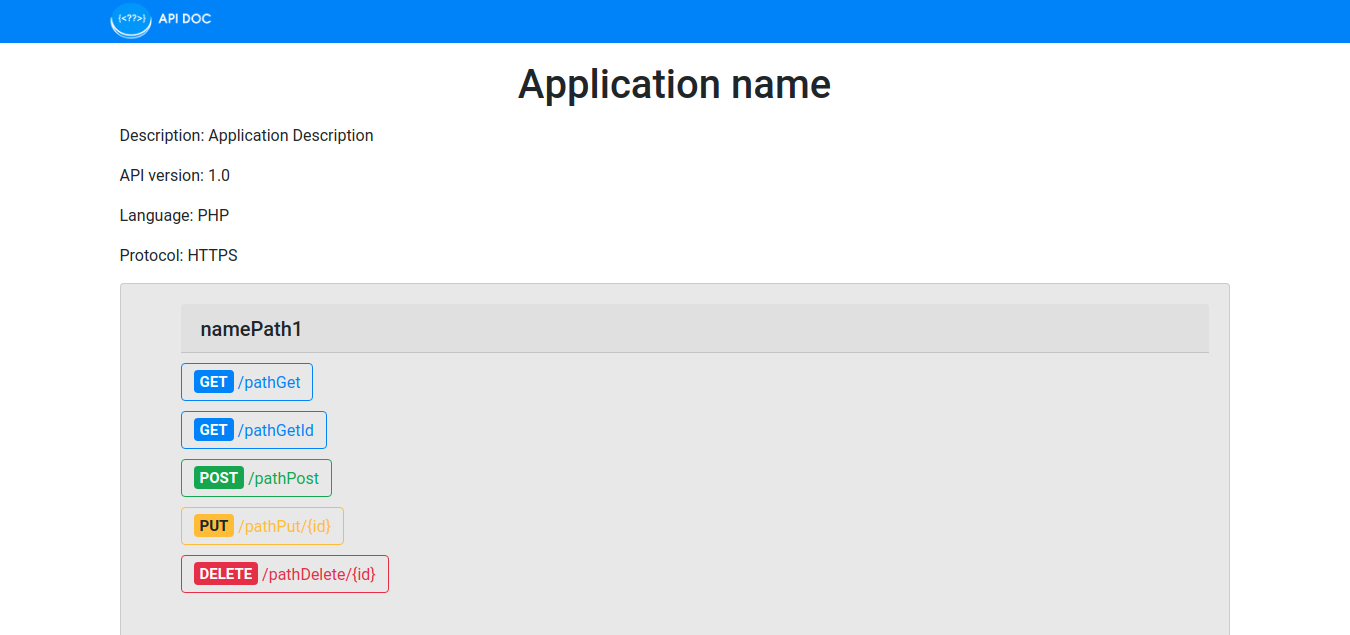
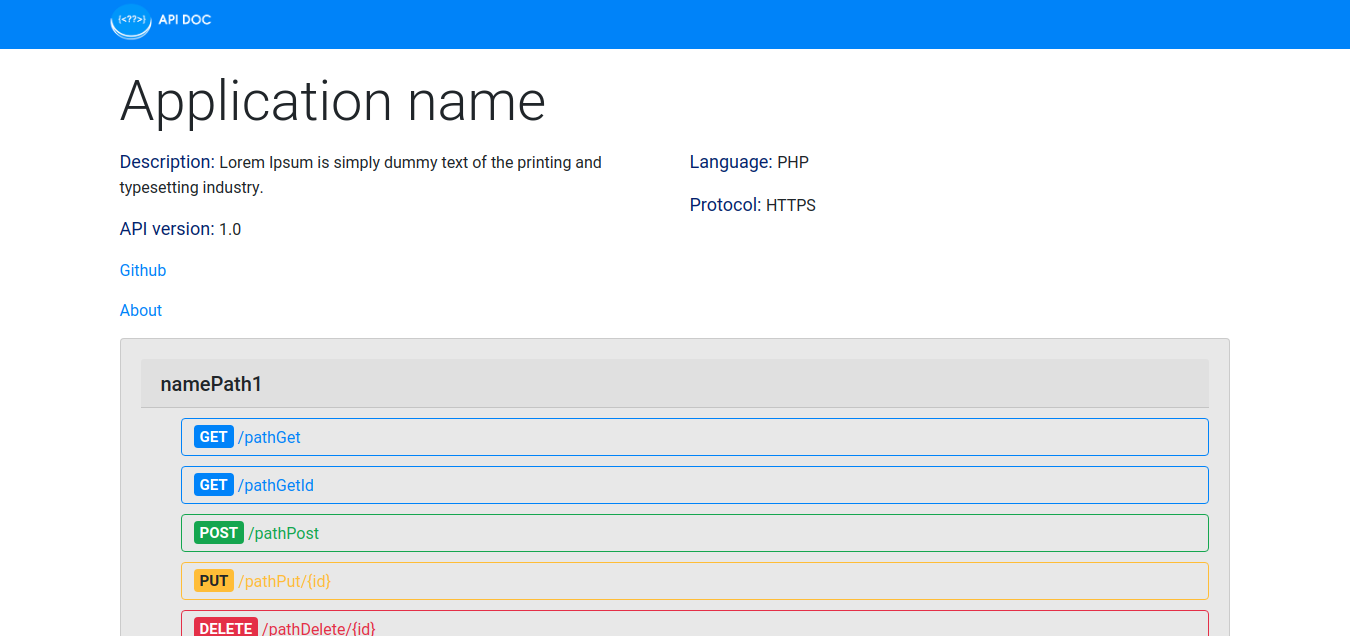
rc version

diff --git a/api-doc/view/_css/custom.css b/api-doc/view/_css/custom.css
@@ -20,6 +20,11 @@ ul li {
     height: 10%;
 }
 
+.logo2 {
+    width: 185px;
+    height: 80px;
+}
+
 .hidden {
     display: none;
 }

diff --git a/api-doc/fields.php b/api-doc/fields.php
@@ -9,13 +9,36 @@
         <div class="col col-md-6">
             <p><span class="back">Description: </span><?php echo $info->description; ?></p>
             <p><span class="back">API version: </span><?php echo $info->version; ?></p>
-            <p><a href="https://github.com/brennoDuarte/ApiDoc" target="_blank">Github</a></p>
-            <p><a href="#">About</a></p>
+            <p><a href="https://github.com/brennoDuarte/ApiDoc/releases" target="_blank">Github</a></p>
+            <p><a href="#" data-toggle="modal" data-target="#about">About</a></p>
         </div>
 
         <div class="col col-md-6">
             <p><span class="back">Language: </span><?php echo $info->language; ?></p>
             <p><span class="back">Protocol: </span><?php echo $info->protocol; ?></p>
+        </div>
+
+       <!-- Modal -->
+        <div class="modal fade" id="about" tabindex="-1" role="dialog" aria-labelledby="labelM" aria-hidden="true">
+            <div class="modal-dialog" role="document">
+                <div class="modal-content">
+                    <div class="modal-header">
+                        <h5 class="modal-title" id="labelM">About</h5>
+                        <button type="button" class="close" data-dismiss="modal" aria-label="Fechar">
+                        <span aria-hidden="true">&times;</span>
+                        </button>
+                    </div>
+                    <div class="modal-body">
+                        <!-- Content Modal -->
+                        <img src="view/_img/apidoclogo.png" class="navbar-left pull-right text-center">
+                        <h4 class="text-center">ApiDoc 1.1.0 (RC)</h4>
+                        <a href="https://github.com/brennoDuarte/ApiDoc/blob/master/LICENSE" target="_blank">License MIT</a>
+                    </div>
+                    <div class="modal-footer">
+                        <button type="button" class="btn btn-secondary" data-dismiss="modal">Close</button>
+                    </div>
+                </div>
+            </div>
         </div>
     </div>
 

diff --git a/README.md b/README.md
@@ -1,7 +1,5 @@
 # Introduction
 
-![GitHub release](https://img.shields.io/github/release/brenno/1.0-beta)
-
 ApiDoc is a template made in HTML, PHP and Jquery to assist with PHP REST API documentation.
  
 <img src="api-doc/view/_img/apidoc.png">
@@ -36,4 +34,4 @@ The **urls** session is subdivided into:
 
 To add a new path, copy from "namePath" into the "config.json" file and paste it below the other paths.
 
-Done, just open the **index.php** file in any browse
+Done, just open the **apidoc.php** file in any browse
